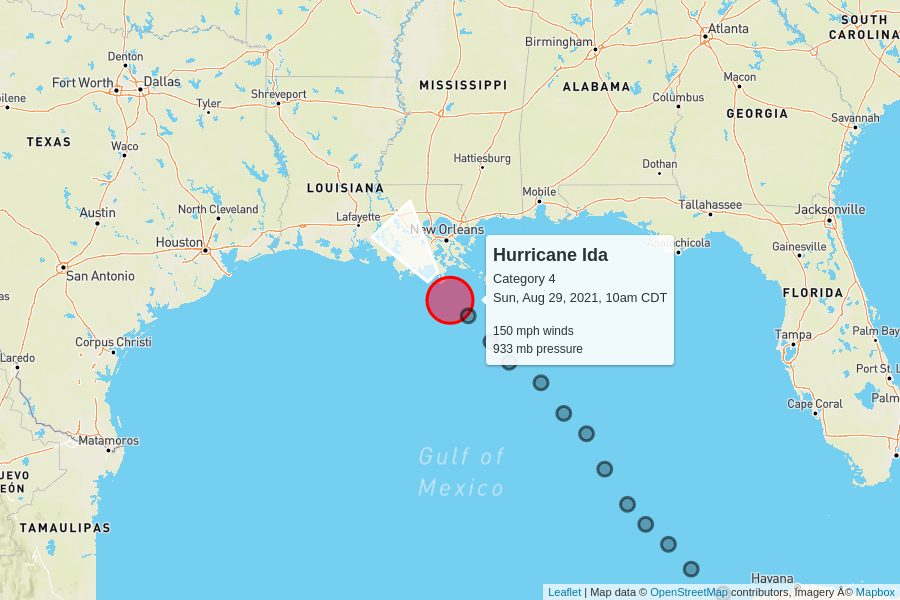
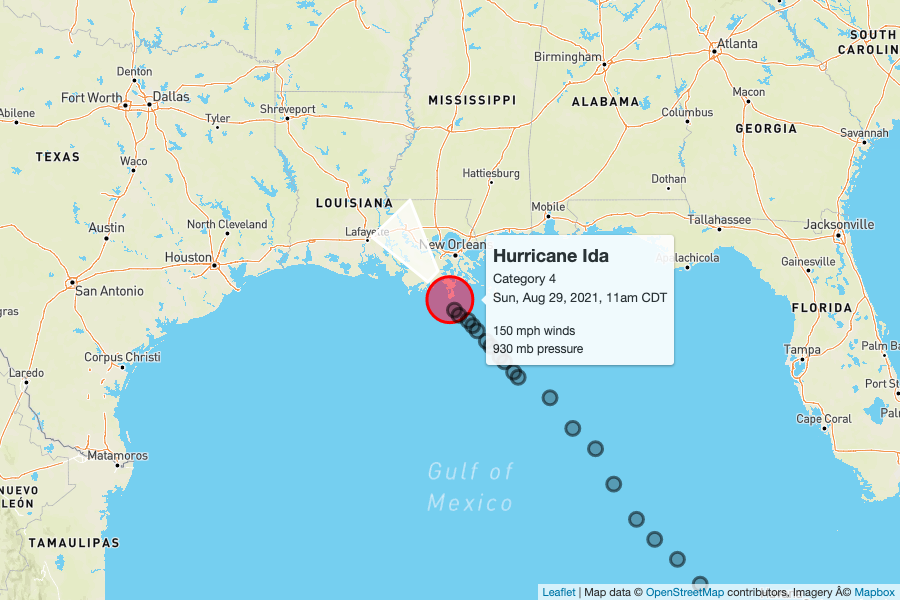
include intermediate updates; rebuild past data to include intermediate

diff --git a/src/parse.js b/src/parse.js
@@ -9,10 +9,15 @@ export default async (url) => {
 
   const [, advisory] = d.match(/<pre>([\s\S]*)<\/pre>/im);
 
-  const final = !!advisory
-    .match(/next advisory\n-+\n([\s\S]*?)\n\s?\n/im)[1]
-    .replace(/\n/g, " ")
-    .match(/this is the last public advisory/i);
+  // If the url is an intermediate/partial update, that implies a full update
+  // is still scheduled, so this storm is not final. Partial updates don't
+  // include the "next advisory" text, so skip that checka nd just say false.
+  const final = /\.update\./.test(url)
+    ? false
+    : !!advisory
+        .match(/next advisory\n-+\n([\s\S]*?)\n\s?\n/im)[1]
+        .replace(/\n/g, " ")
+        .match(/this is the last public advisory/i);
 
   const [, classification, , name] = advisory
     .match(
@@ -28,9 +33,10 @@ export default async (url) => {
 
   const timestamp = new Date(
     Date.parse(
-      `${year}-${months[month]}-${day}T${time.slice(0, 2)}:${time.slice(2)}${
-        tzOffsets[tz]
-      }`
+      `${year}-${months[month]}-${day.padStart(2, 0)}T${time.slice(
+        0,
+        2
+      )}:${time.slice(2)}${tzOffsets[tz]}`
     )
   ).toISOString();
 
@@ -38,27 +44,36 @@ export default async (url) => {
     /NWS (Weather Prediction|National Hurricane) Center (Miami FL|College Park MD)\s*(AL\d+)/i
   );
 
-  const [, lat, ns, lon, ew] = advisory.match(
-    /location\.+(\d{1,2}\.\d)(n|s) (\d{1,3}\.\d)(e|w)/i
-  );
+  try {
+    // Some advisories don't contain updates to location or storm position and
+    // are just notices that other governments have issued storm warnings, etc.
+    const [, lat, ns, lon, ew] = advisory.match(
+      /location\.+(\d{1,2}\.\d)(n|s) (\d{1,3}\.\d)(e|w)/i
+    );
+    const [, windMph] = advisory.match(
+      /maximum sustained winds[\D]+(\d+) mph/i
+    );
+    const [, pressureMb] = advisory.match(
+      /minimum central pressure\D+(\d+) mb/i
+    );
+    const [, directionDeg, speedMph] = advisory.match(
+      /present movement\D+(\d+) degrees at (\d+) mph/i
+    );
 
-  const [, windMph] = advisory.match(/maximum sustained winds[\D]+(\d+) mph/i);
-  const [, pressureMb] = advisory.match(/minimum central pressure\D+(\d+) mb/i);
-  const [, directionDeg, speedMph] = advisory.match(
-    /present movement\D+(\d+) degrees at (\d+) mph/i
-  );
-
-  return {
-    id,
-    timestamp,
-    classification: ucwords(classification),
-    final,
-    name: ucwords(name),
-    latitude: ns.toLowerCase() === "s" ? -+lat : +lat,
-    longitude: ew.toLowerCase() === "w" ? -+lon : +lon,
-    "maximum sustained wind (mph)": +windMph,
-    "minimum central pressure (mb)": +pressureMb,
-    "movement speed (mph)": +speedMph,
-    "movement direction (degrees)": +directionDeg,
-  };
+    return {
+      id,
+      timestamp,
+      classification: ucwords(classification),
+      final,
+      name: ucwords(name),
+      latitude: ns.toLowerCase() === "s" ? -+lat : +lat,
+      longitude: ew.toLowerCase() === "w" ? -+lon : +lon,
+      "maximum sustained wind (mph)": +windMph,
+      "minimum central pressure (mb)": +pressureMb,
+      "movement speed (mph)": +speedMph,
+      "movement direction (degrees)": +directionDeg,
+    };
+  } catch (e) {
+    return false;
+  }
 };

diff --git a/src/archive-urls.js b/src/archive-urls.js
@@ -1,9 +1,28 @@
 import fetch from "node-fetch";
 import fs from "fs/promises";
 import sqlite from "sqlite3";
-import { cachePath, dataPath, sleep, sqlite as dbUtils } from "./util.js";
+import {
+  cachePath,
+  dataPath,
+  exists,
+  sleep,
+  sqlite as dbUtils,
+} from "./util.js";
 
 const baseUrl = "https://www.nhc.noaa.gov/archive/2021/";
+
+const getStormsThatAreFinal = async () => {
+  // If the sqlite database doesn't exist, we can't really query it yet. So, in
+  // that case, return an empty list because there aren't any known-final storms
+  // not to scrape yet.
+  if (await exists(`${dataPath}/storms.2021.sqlite`)) {
+    const db = new sqlite.Database(`${dataPath}/storms.2021.sqlite`);
+    return (
+      await dbUtils.getAll(db, "SELECT DISTINCT name FROM storms WHERE final=1")
+    ).map(({ name }) => name.toLowerCase());
+  }
+  return [];
+};
 
 const promise = fetch(baseUrl)
   .then((r) => r.text())
@@ -12,10 +31,7 @@ const promise = fetch(baseUrl)
       await fs.readFile(`${cachePath}/visited.json`, { encoding: "utf-8" })
     );
 
-    const db = new sqlite.Database(`${dataPath}/storms.2021.sqlite`);
-    const final = (
-      await dbUtils.getAll(db, "SELECT DISTINCT name FROM storms WHERE final=1")
-    ).map(({ name }) => name.toLowerCase());
+    const final = await getStormsThatAreFinal();
 
     const [, links] = text.match(
       /(<td valign="top" headers="al">([\s\S]*?)<\/td>)/im
@@ -32,6 +48,10 @@ const promise = fetch(baseUrl)
     const advisoryUrls = [];
 
     for await (const url of urls) {
+      if (advisoryUrls.length > 0) {
+        await sleep(1500);
+      }
+
       const page = await fetch(url);
       const text = await page.text();
 
@@ -47,10 +67,7 @@ const promise = fetch(baseUrl)
           .reduce((all, v) => [...all, ...v], [])
           .map((u) => `https://www.nhc.noaa.gov${u}`)
           .filter((u) => !visited.includes(u))
-          .filter((u) => !/\.update\.\d+\./i.test(u))
       );
-
-      await sleep(1500);
     }
 
     return advisoryUrls;

diff --git a/src/sqlite.js b/src/sqlite.js
@@ -7,12 +7,16 @@ const { get, run } = dbUtils;
 const columnize = (name) => name.replace(/[^a-z]+/gi, "_").replace(/_$/, "");
 
 const createIfNecessary = async (db, data) => {
-  const columns = Object.keys(data).map((k) => {
-    const column = columnize(k);
-    const type = typeof data[k];
+  const columns = Object.keys(data)
+    // specify the final column separately, so we can make enforce its range
+    // and default
+    .filter((k) => k !== "final")
+    .map((k) => {
+      const column = columnize(k);
+      const type = typeof data[k];
 
-    return `${column} ${type === "number" ? "REAL" : "TEXT"}`;
-  });
+      return `${column} ${type === "number" ? "REAL" : "TEXT"}`;
+    });
   columns.push("final BOOLEAN NOT NULL CHECK (final IN (0,1)) DEFAULT 0");
 
   const sql = `CREATE TABLE IF NOT EXISTS storms (${columns.join(",")})`;

diff --git a/src/index.js b/src/index.js
@@ -14,13 +14,26 @@ const visited = JSON.parse(
   await fs.readFile(`${cachePath}/visited.json`, { encoding: "utf-8" })
 );
 
+let on = 1;
 for await (const url of urls) {
-  console.log(url);
+  if (on > 1) {
+    await sleep(1500);
+  }
+
+  process.stdout.clearLine();
+  process.stdout.cursorTo(0);
+  process.stdout.write(`[${on} of ${urls.length}]: ${url}`);
+
   const data = await main(url);
-  await csv(data);
-  await sql(data);
+
+  // data can be false, for advisories that don't update the storm location,
+  // wind, or movement.
+  if (data) {
+    await csv(data);
+    await sql(data);
+  }
   visited.push(url);
-  await sleep(1500);
+  on += 1;
 }
 
 const db = new sqlite.Database(`${dataPath}/storms.2021.sqlite`);

diff --git a/docs/index.html b/docs/index.html
@@ -95,7 +95,7 @@
         <td colspan="6" class="storm category-4">
           <h2>
             Hurricane Ida - Category 4
-            <p class="updated">last updated <span data-time>2021-08-29T15:00:00.000Z</span></p>
+            <p class="updated">last updated <span data-time>2021-08-29T16:55:00.000Z</span></p>
           </h2>
         </td>
       </tr>
@@ -111,7 +111,7 @@
       <tr>
         <td class="spacer"></td>
         <td>150 mph</td>
-        <td>933 mb</td>
+        <td>930 mb</td>
         <td>
           13 mph to the northwest
           <br/>

diff --git a/src/map.js b/src/map.js
@@ -57,9 +57,10 @@ export default async () => {
 
   await sleep(500);
 
-  const ids = (await getAll(db, "SELECT DISTINCT id FROM storms")).map(
-    ({ id }) => id
-  );
+  // Only draw maps for active storms
+  const ids = (
+    await getAll(db, "SELECT DISTINCT id FROM storms WHERE final=0")
+  ).map(({ id }) => id);
 
   for await (const id of ids) {
     const storm = await getAll(db, "SELECT * FROM storms WHERE id=?", id);
